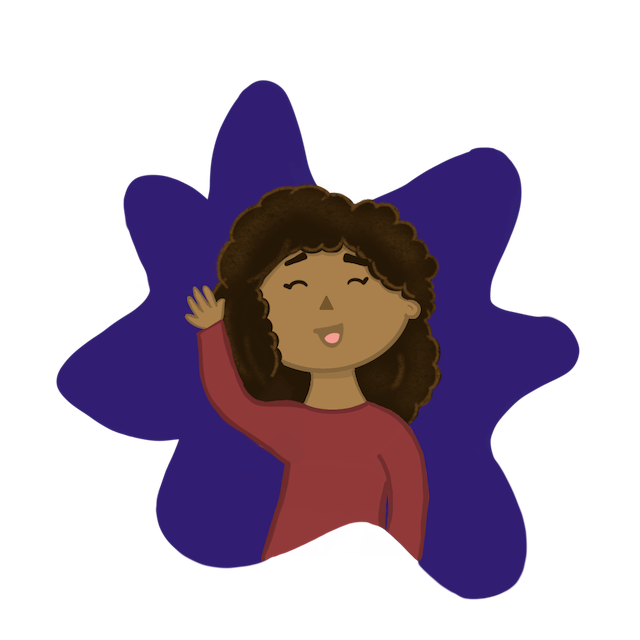
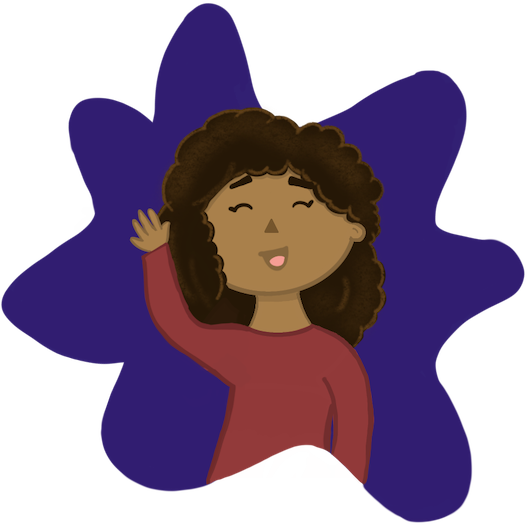
-resize pavi cartoon, made header vertically center

diff --git a/layouts/index.html b/layouts/index.html
@@ -1,11 +1,12 @@
 {{ define "main" }}
 
+
   <!-- hero area -->
   <section class="hero-area bg-primary overflow-hidden" id="parallax">
     <div class="container">
       <div class="row">
-        <div class="col-lg-8">
-          <h1 class="text-white font-tertiary">{{ site.Data.homepage.banner.title | safeHTML }}</h1>
+        <div class="col-lg-8" style="display: flex">
+          <h1 class="text-white font-tertiary" style="align-self: center">{{ site.Data.homepage.banner.title | safeHTML }}</h1>
         </div>
         <div class="col-lg-4">
           <img src="images/pavi/pavi-cartoon.png">
